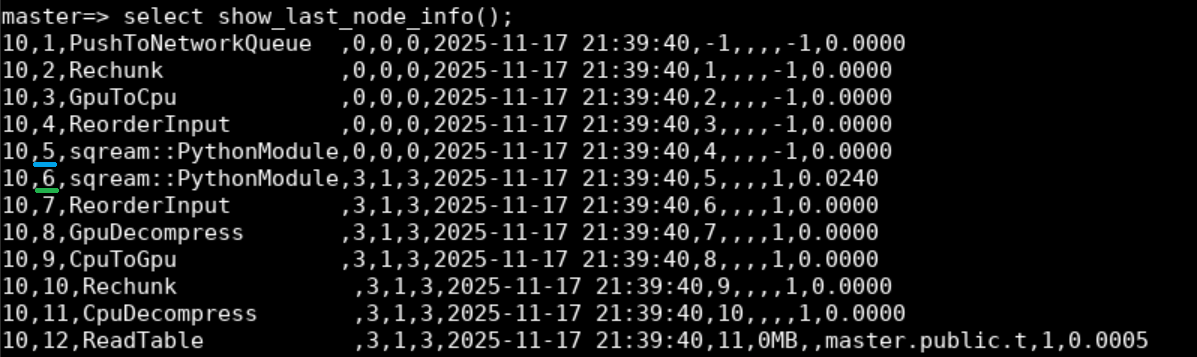
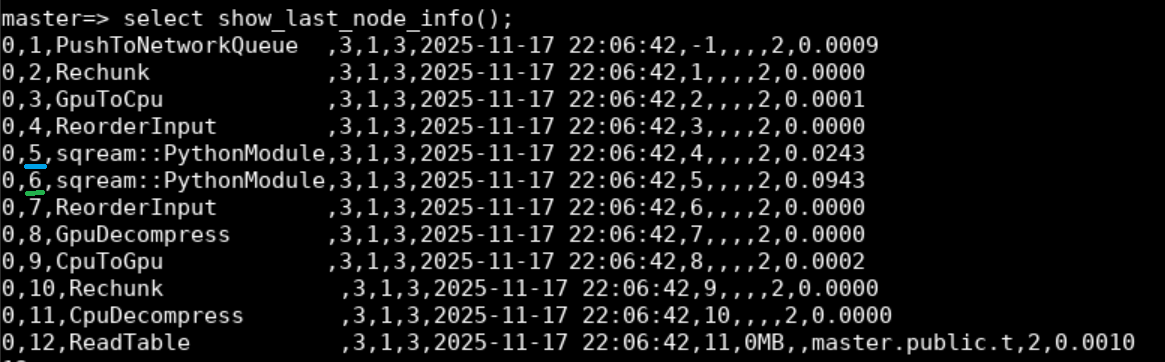
update

Changed region(s): [[0.0, 0.0308, 0.9888, 1.0]]

diff --git a/ai_ml/python_installation_and_configuration.rst b/ai_ml/python_installation_and_configuration.rst
@@ -113,7 +113,7 @@ In SQream:
 Show node info: (Can see statement’s python execution on node id level):
 
 .. image:: /_static/images/python_module_service_sni.png
-   :alt: Python Module - Show node info Example
+   :alt: Python Module - Show Node Info Example
 
 
 Python module logs:
